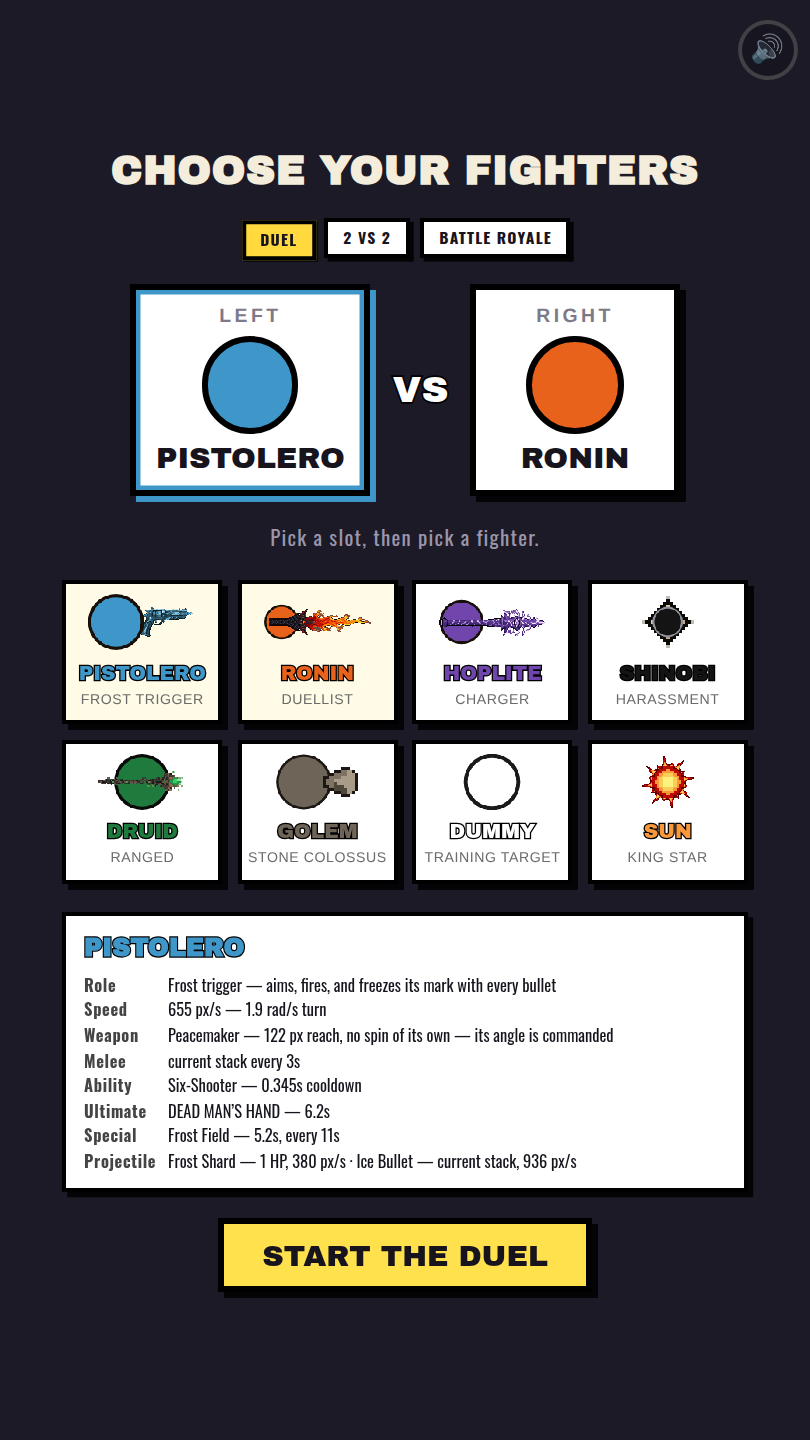
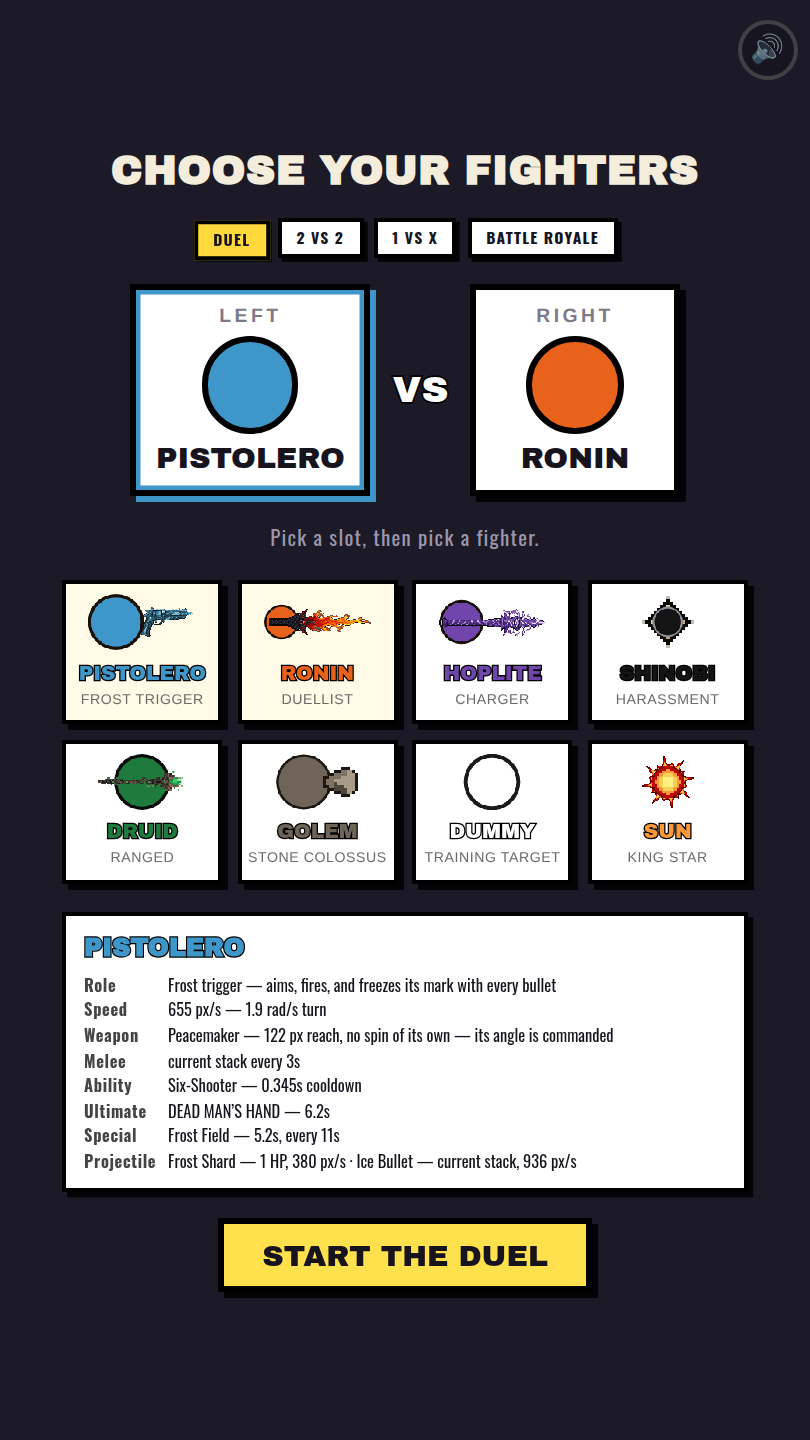
Ajoute le format 1 contre X : un combattant seul contre 2 à 4 autres
Demandé : un mode 1vX, par exemple le Soleil contre 4 personnages au maximum.

**Le moteur n'a pas eu une ligne à écrire, et c'est vérifié, pas supposé** : le
1 contre 4 a d'abord été joué par l'URL — `?f=sun,outlaw,bladesman,wind,mage&
teams=0,1,1,1,1` — et il tournait déjà, HUD groupé en deux bandeaux, titre
d'arène « SUN vs PISTOLERO · RONIN · SHINOBI · DRUID », jauges de chacun. Le
format n'existait qu'à l'écran de sélection.

Une entrée dans la table `FORMATS` de `ui/select.js` :

    solo: { taille: 3, min: 3, max: 5,
            camps: (n) => Array.from({ length: n }, (_, i) => (i === 0 ? 0 : 1)), … }

3 à 5 emplacements, donc de 1 contre 2 à **1 contre 4** comme demandé. Le
plancher est 3 et non 2 : à deux, ce serait le duel, qui a déjà son format. Le
1 contre X et la bataille royale ne diffèrent que par `camps` — `[0,1,1,1]`
contre `[0,1,2,3]`.

**Trois chaînes `mode === '…'` sont rentrées dans la table** à cette occasion,
pour que la promesse « ajouter un format ne coûte qu'une entrée » soit vraie :
chaque format porte maintenant son `tag` (libellé d'emplacement) et son
`bouton` (libellé de départ), et c'est la présence de `min` qui décide
l'affichage du compteur, plus un nom de format testé en dur. `#royale-size`
devient `#fighter-count` : il ne sert plus qu'à la bataille royale.

**Un défaut de mise en page trouvé et corrigé** : le 1 contre X est le premier
format où un seul camp porte quatre emplacements, et `.slot-team` était une
[…]

Changed region(s): [[0.216, 0.125, 0.7716, 0.1875]]

diff --git a/src/ui/select.js b/src/ui/select.js
@@ -19,7 +19,7 @@ export function createSelectScreen({ root, onStart, lang = 'ref' }) {
   const t = UI[lang] ?? UI.ref;
   const slotsEl = root.querySelector('#slots');
   const modesEl = root.querySelector('#modes');
-  const sizeEl = root.querySelector('#royale-size');
+  const sizeEl = root.querySelector('#fighter-count');
   const sizeLabel = root.querySelector('#size-label');
   const rosterEl = root.querySelector('#roster');
   const sheetEl = root.querySelector('#element-sheet');
@@ -27,14 +27,58 @@ export function createSelectScreen({ root, onStart, lang = 'ref' }) {
 
   /**
    * **Formats.** `duel` est le duel d'origine ; `teams` forme deux camps de
-   * deux ; `royale` met 3 à 5 combattants chacun pour soi. Le nombre
-   * d'emplacements et leur groupement en découlent — c'est la seule chose que
-   * le format décide ici, le moteur ne connaissant, lui, que des camps.
+   * deux ; `solo` en met **un seul contre tous les autres** ; `royale` met 3 à
+   * 5 combattants chacun pour soi. Le nombre d'emplacements et leur groupement
+   * en découlent — c'est la seule chose que le format décide ici, le moteur ne
+   * connaissant, lui, que des camps.
+   *
+   * **Chaque format porte tout ce qui le distingue**, et c'est ce qui fait
+   * qu'en ajouter un ne coûte qu'une entrée :
+   *  • `taille` (et `min`/`max` s'il est réglable — c'est `min` qui décide
+   *    l'affichage du compteur, aucun nom de format n'est testé pour ça) ;
+   *  • `camps`, la seule chose que le moteur lise ;
+   *  • `tag`, le libellé d'un emplacement ;
+   *  • `bouton`, le libellé du bouton de départ.
+   *
+   * `solo` et `royale` ont le même compteur mais pas les mêmes camps : le
+   * premier fait **1 contre n−1**, le second **chacun pour soi**. C'est la
+   * seule différence entre eux, et elle tient dans `camps`.
    */
   const FORMATS = {
-    duel: { taille: 2, camps: () => [0, 1] },
-    teams: { taille: 4, camps: () => [0, 0, 1, 1] },
-    royale: { taille: 4, min: 3, max: Math.min(5, ROSTER.length), camps: (n) => ROSTER.slice(0, n).map((_, i) => i) },
+    duel: {
+      taille: 2,
+      camps: () => [0, 1],
+      tag: (i) => (i === 0 ? t.slotLeft : t.slotRight),
+      bouton: () => t.start,
+    },
+    teams: {
+      taille: 4,
+      camps: () => [0, 0, 1, 1],
+      tag: (i, camps) => (camps[i] === 0 ? t.teamA : t.teamB),
+      bouton: () => t.start,
+    },
+    solo: {
+      taille: 3,
+      /** **3 à 5 emplacements, donc 1 contre 2 à 1 contre 4** — demandé « 4
+       *  personnages max ». Le plancher est 3 et non 2 : à deux, ce serait le
+       *  duel, qui a déjà son format. */
+      min: 3,
+      max: Math.min(5, ROSTER.length),
+      camps: (n) => Array.from({ length: n }, (_, i) => (i === 0 ? 0 : 1)),
+      /** Le premier est nommé, les autres numérotés : ils sont **un seul
+       *  camp**, ce que le « VS » et le groupement disent déjà — les libeller
+       *  tous pareil ferait perdre lequel on est en train de remplir. */
+      tag: (i) => (i === 0 ? t.slotSolo : t.slotN(i)),
+      bouton: () => t.startSolo,
+    },
+    royale: {
+      taille: 4,
+      min: 3,
+      max: Math.min(5, ROSTER.length),
+      camps: (n) => ROSTER.slice(0, n).map((_, i) => i),
+      tag: (i) => t.slotN(i + 1),
+      bouton: () => t.startRoyale,
+    },
   };
   let mode = 'duel';
   let taille = FORMATS.duel.taille;
@@ -104,16 +148,19 @@ export function createSelectScreen({ root, onStart, lang = 'ref' }) {
     refresh();
   });
 
-  // --- nombre de combattants, en bataille royale seulement
+  // --- nombre de combattants, dans les formats qui le règlent (`min` posé)
   root.querySelector('#size-less').addEventListener('click', () => setSize(taille - 1));
   root.querySelector('#size-more').addEventListener('click', () => setSize(taille + 1));
 
   function setSize(n) {
-    const f = FORMATS.royale;
+    const f = FORMATS[mode];
+    // Un format à taille fixe n'a pas de `min` : les deux boutons restent
+    // câblés mais ne font rien, plutôt que d'exister en double selon le mode.
+    if (!f.min) return;
     const clamped = Math.max(f.min, Math.min(f.max, n));
     if (clamped === taille) return;
     taille = clamped;
-    f.taille = clamped; // retenu pour le prochain passage en bataille royale
+    f.taille = clamped; // retenu pour le prochain passage dans ce format
     if (active >= taille) active = taille - 1;
     buildSlots();
     refresh();
@@ -162,10 +209,7 @@ export function createSelectScreen({ root, onStart, lang = 'ref' }) {
 
       const tag = document.createElement('span');
       tag.className = 'slot-tag';
-      tag.textContent =
-        mode === 'duel' ? (i === 0 ? t.slotLeft : t.slotRight)
-          : mode === 'teams' ? (camps[i] === 0 ? t.teamA : t.teamB)
-            : t.slotN(i + 1);
+      tag.textContent = FORMATS[mode].tag(i, camps);
 
       const orb = document.createElement('span');
       orb.className = 'slot-orb';
@@ -178,7 +222,7 @@ export function createSelectScreen({ root, onStart, lang = 'ref' }) {
       groupe.append(btn);
       slotBtns.push({ btn, orb, name });
     }
-    sizeEl.hidden = mode !== 'royale';
+    sizeEl.hidden = !FORMATS[mode].min;
     sizeLabel.textContent = String(taille);
     for (const b of modesEl.querySelectorAll('[data-mode]')) {
       b.setAttribute('aria-pressed', String(b.dataset.mode === mode));
@@ -235,7 +279,7 @@ export function createSelectScreen({ root, onStart, lang = 'ref' }) {
       orb.style.background = el ? el.look.body : '#e6e6e6';
       name.textContent = el ? label(el, lang) : '—';
     });
-    startBtn.textContent = mode === 'royale' ? t.startRoyale : t.start;
+    startBtn.textContent = FORMATS[mode].bouton();
     startBtn.disabled = retenus.some((id) => !id);
   }
 

diff --git a/styles/style.css b/styles/style.css
@@ -215,7 +215,7 @@ body {
 }
 
 /* Nombre de combattants, en bataille royale seulement. */
-.royale-size {
+.fighter-count {
   display: flex;
   align-items: center;
   gap: 1.6cqw;
@@ -224,7 +224,7 @@ body {
 /* `display: flex` l'emporte sur l'attribut `hidden`, qui ne pose qu'un
    `display: none` de feuille par défaut : sans cette ligne, le sélecteur de
    nombre restait visible en duel. */
-.royale-size[hidden] { display: none; }
+.fighter-count[hidden] { display: none; }
 
 .size-btn {
   appearance: none;
@@ -254,11 +254,18 @@ body {
 }
 
 /* Un camp = un bloc. C'est ce qui garde le « VS » entre les camps plutôt qu'au
-   fil du texte quand la ligne passe à la ligne. */
+   fil du texte quand la ligne passe à la ligne.
+
+   Il passe à la ligne **lui aussi** depuis le 1 contre X : c'est le premier
+   format où un seul camp porte quatre emplacements, et une rangée de quatre
+   débordait la page (440 px de large pour 405). Les autres formats n'en
+   mettent jamais plus de deux dans un camp, donc rien n'y change. */
 .slot-team {
   display: flex;
   align-items: flex-start;
   gap: 2cqw;
+  flex-wrap: wrap;
+  justify-content: center;
 }
 
 /* Emplacement + son champ de points de vie. Le champ est à côté du bouton et
@@ -271,6 +278,9 @@ body {
 .slots:not([data-count="2"]) .slot-name { font-size: 2.4cqw; }
 .slots:not([data-count="2"]) .slot-tag { font-size: 1.5cqw; }
 .slots:not([data-count="2"]) .slot-vs { font-size: 3.4cqw; }
+/* À cinq, le camp le plus chargé en porte quatre (1 contre 4) : à 28cqw la
+   rangée fait 118cqw. On resserre juste assez pour qu'elle tienne. */
+.slots[data-count="5"] .slot { min-width: 21cqw; }
 
 .slot {
   appearance: none;

diff --git a/src/ui/lang.js b/src/ui/lang.js
@@ -33,10 +33,13 @@ export const UI = {
     // --- formats de partie
     modeDuel: 'DUEL',
     modeTeams: '2 VS 2',
+    modeSolo: '1 VS X',
     modeRoyale: 'BATTLE ROYALE',
     teamA: 'TEAM A',
     teamB: 'TEAM B',
+    slotSolo: 'ALONE',
     slotN: (i) => `FIGHTER ${i}`,
+    startSolo: 'START THE HUNT',
     startRoyale: 'START THE BRAWL',
     standings: 'FINAL STANDINGS',
     // --- écran de fin (statique)
@@ -143,10 +146,13 @@ export const UI = {
     // --- formats de partie
     modeDuel: 'DUEL',
     modeTeams: '2 CONTRE 2',
+    modeSolo: '1 CONTRE X',
     modeRoyale: 'BATAILLE ROYALE',
     teamA: 'ÉQUIPE A',
     teamB: 'ÉQUIPE B',
+    slotSolo: 'SEUL',
     slotN: (i) => `COMBATTANT ${i}`,
+    startSolo: 'LANCER LA TRAQUE',
     startRoyale: 'LANCER LA MÊLÉE',
     standings: 'CLASSEMENT',
     start: 'LANCER LE DUEL',
@@ -239,6 +245,7 @@ export function applyStaticLabels(root, lang) {
   // reste ici que ce qui est écrit en dur dans `index.html`.
   set('[data-mode="duel"]', t.modeDuel);
   set('[data-mode="teams"]', t.modeTeams);
+  set('[data-mode="solo"]', t.modeSolo);
   set('[data-mode="royale"]', t.modeRoyale);
   set('.select-hint', t.selectHint);
   set('#btn-start', t.start);

diff --git a/index.html b/index.html
@@ -32,6 +32,7 @@
       <div class="modes" id="modes" role="group" aria-label="Match format">
         <button class="mode" data-mode="duel" type="button" aria-pressed="true">DUEL</button>
         <button class="mode" data-mode="teams" type="button" aria-pressed="false">2 VS 2</button>
+        <button class="mode" data-mode="solo" type="button" aria-pressed="false">1 VS X</button>
         <button class="mode" data-mode="royale" type="button" aria-pressed="false">BATTLE ROYALE</button>
       </div>
 
@@ -39,7 +40,7 @@
            leur groupement dépendent du format choisi. -->
       <div class="slots" id="slots"></div>
 
-      <div class="royale-size" id="royale-size" hidden>
+      <div class="fighter-count" id="fighter-count" hidden>
         <button class="size-btn" id="size-less" type="button" aria-label="One fewer fighter">−</button>
         <span class="size-label" id="size-label">4</span>
         <button class="size-btn" id="size-more" type="button" aria-label="One more fighter">+</button>

diff --git a/README.md b/README.md
@@ -1,7 +1,7 @@
-# Elemental Duel — huit combattants, trois formats
+# Elemental Duel — huit combattants, quatre formats
 
-Duels **à deux, en 2 contre 2 ou en bataille royale** (jusqu'à huit, chacun pour
-soi), avec cinq combattants repris de la chaîne **« ballthingsim »** et trois
+Duels **à deux, en 2 contre 2, en 1 contre X ou en bataille royale** (jusqu'à
+huit, chacun pour soi), avec cinq combattants repris de la chaîne **« ballthingsim »** et trois
 inventés, en **HTML + CSS + JavaScript** avec un rendu **Canvas 2D**.
 Aucune dépendance, aucun build : le dépôt se publie tel quel sur GitHub Pages.
 
@@ -32,12 +32,15 @@ boss). L'équilibrage se lit sur les six autres.
 | --- | --- |
 | **Duel** | un contre un, le format d'origine — c'est lui, et lui seul, dont l'équilibrage est relevé |
 | **2 contre 2** | deux équipes de deux. Les armes ne touchent que le camp adverse, mais les **corps se bousculent entre tous** : un coéquipier reste un obstacle |
+| **1 contre X** | un combattant **seul contre tous les autres**, de **1 contre 2 à 1 contre 4**. Les X forment un seul camp : ils s'épaulent, se bousculent entre eux, et ne visent que le solitaire |
 | **Bataille royale** | **3 à 5** combattants à l'écran de sélection, chacun pour soi, dernier debout. Le moteur, lui, en accepte autant qu'il y a de combattants — le plafond est un choix de lisibilité, pas une limite technique |
 
-Le moteur ne connaît aucun de ces trois noms : il reçoit une liste de
-combattants et **un camp pour chacun**. « 2 contre 2 » et « chacun pour soi »
-sont deux façons de remplir la même liste de camps. Ajouter un format ne demande
-donc pas une ligne de moteur.
+Le moteur ne connaît aucun de ces quatre noms : il reçoit une liste de
+combattants et **un camp pour chacun**. « 2 contre 2 », « 1 contre X » et
+« chacun pour soi » sont trois façons de remplir la même liste de camps —
+`[0,0,1,1]`, `[0,1,1,1]` et `[0,1,2,3]`. Ajouter un format ne demande donc pas
+une ligne de moteur : le 1 contre X a été **joué par l'URL avant d'avoir une
+seule ligne d'interface**, et il tournait déjà.
 
 Au-delà de deux combattants, chacun vise l'**ennemi vivant le plus proche** et
 peut changer de cible d'un pas à l'autre, un **mort quitte le terrain
@@ -79,7 +82,7 @@ voir [`docs/FICHES.md`](docs/FICHES.md).
 
 ![L’Hoplite contre le Ronin](docs/capture-duel.png)
 
-<sup>Les nouveaux formats : [un 2 contre 2](docs/capture-2v2.png) (les camps groupés dans le titre et dans le HUD) · [une bataille royale à cinq](docs/capture-royale.png) · [la parade à deux vainqueurs](docs/capture-fin-2v2.png).</sup>
+<sup>Les autres formats : [un 2 contre 2](docs/capture-2v2.png) (les camps groupés dans le titre et dans le HUD) · [**un 1 contre 4**](docs/capture-1vx.png), le Soleil seul contre quatre — il gagne 1 duel sur 3 dans cette configuration, là où il en gagne 20 sur 21 en 1 contre 1 · [une bataille royale à cinq](docs/capture-royale.png) · [la parade à deux vainqueurs](docs/capture-fin-2v2.png).</sup>
 
 <sup>L’Hoplite (charge, Dôme de drain) contre le Ronin (surchauffe, Aura de braise). Voir aussi [l'écran de sélection](docs/capture-selection.png), [le Pistolero sous DEAD MAN’S HAND](docs/capture-horsloi.png), [la ruée du Ronin](docs/capture-bretteur.png), [la Foudre tombante de l’Hoplite](docs/capture-lancer.png), [sa charge de lance](docs/capture-lancer-charge.png) et [l'écran de fin avec l'export Short](docs/capture-fin.png). Le boss : [le Rayon solaire du Soleil](docs/capture-soleil.png), huit rayons en couronne et un faisceau qui traverse l'arène — et [ses deux secondes de chargement](docs/capture-soleil-charge.png), la seule fenêtre pour en sortir.</sup>
 
@@ -110,7 +113,7 @@ empêche Jekyll d'ignorer les dossiers.
 | ------------ | ----------------------------------------------------------------- |
 | `?a=&b=`     | lance directement un duel sans écran de sélection — `outlaw`, `bladesman`, `lancer`, `wind` (le Shinobi), `mage` |
 | `?f=`        | une liste de combattants, pour une partie à plusieurs : `?f=outlaw,mage,lancer,wind` |
-| `?teams=`    | les camps, dans le même ordre que `?f=` : `0,0,1,1` fait un 2 contre 2. Omis, chacun pour soi |
+| `?teams=`    | les camps, dans le même ordre que `?f=` : `0,0,1,1` fait un 2 contre 2, `0,1,1,1` un 1 contre 3. Omis, chacun pour soi |
 | `?seed=1234` | rejoue **exactement** le même duel (déterminisme complet)          |
 | `?lang=fr`   | **toute l'interface** en français — HUD, titre d'arène et écrans DOM (par défaut : l'anglais de la vidéo) |
 | `?debug=1`   | hitboxes, vitesses, charge d'ultime, seed                          |

diff --git a/CLAUDE.md b/CLAUDE.md
@@ -1,6 +1,7 @@
 # CLAUDE.md — mémoire du projet
 
-Duels **à deux, en 2 contre 2 ou en bataille royale**, avec huit combattants :
+Duels **à deux, en 2 contre 2, en 1 contre X ou en bataille royale**, avec huit
+combattants :
 cinq repris de la chaîne « ballthingsim » — le Pistolero, le Ronin, l’Hoplite,
 le Shinobi et le Druide — et **trois inventés**, le Golem, le Mannequin (une
 cible d'entraînement qui ne frappe pas) et le Soleil (un **boss**, fait pour
@@ -59,7 +60,7 @@ recale.
 | Écrans DOM | `src/ui/select.js`, `src/ui/result.js`, `index.html`, `styles/style.css` |
 | Libellés d'interface (les deux langues) | `src/ui/lang.js` |
 | Câblage, boucle, seed, enregistreur | `src/main.js` |
-| **Formats de partie** (duel, 2 contre 2, bataille royale) | `src/ui/select.js` (les camps) + `src/game/match.js` (le moteur) |
+| **Formats de partie** (duel, 2 contre 2, 1 contre X, bataille royale) | `src/ui/select.js` (la table `FORMATS`) + `src/game/match.js` (le moteur) |
 
 `elements.js` et `pixelmaps.js` ne sont que des **registres** : ils n'ont
 aucune valeur de combattant. Les ouvrir pour changer une couleur est une erreur
@@ -215,7 +216,7 @@ dans l'autre : `docs/PIEGES.md`.
 
 ## Formats de partie
 
-Trois, et **un seul mécanisme** : le moteur reçoit une liste de combattants et
+Quatre, et **un seul mécanisme** : le moteur reçoit une liste de combattants et
 un camp pour chacun. Il ne sait pas ce qu'est un « 2 contre 2 » ; il sait qui
 peut blesser qui.
 
@@ -223,11 +224,24 @@ peut blesser qui.
 | --- | --- | --- |
 | Duel | 2 identifiants | omis → `[0, 1]` |
 | 2 contre 2 | 4 identifiants | `[0, 0, 1, 1]` |
+| **1 contre X** | 3 à 5 identifiants | `[0, 1, 1, …]` |
 | Bataille royale | 3 à *n* identifiants | omis → chacun le sien |
 
 `ui/select.js` porte la table des formats et fabrique les camps ; `main.js` les
 lit aussi depuis l'URL (`?f=a,b,c&teams=0,0,1`). Ajouter un format ne demande
 **qu'une entrée dans cette table** — pas une ligne de moteur.
+
+**Et c'est vérifié, pas supposé** : le 1 contre X a été joué par l'URL *avant*
+d'écrire une ligne d'interface, et il tournait déjà — HUD groupé, titre
+d'arène, jauges. Chaque entrée porte donc tout ce qui distingue son format
+(`taille`, `min`/`max` s'il est réglable, `camps`, `tag`, `bouton`) : les trois
+chaînes `mode === '…'` qui traînaient dans `select.js` sont rentrées dans la
+table à cette occasion. **C'est `min` qui décide l'affichage du compteur**,
+plus un nom de format.
+
+**Le 1 contre X et la bataille royale se ressemblent et ne diffèrent que par
+`camps`** : `[0, 1, 1, 1]` contre `[0, 1, 2, 3]`. Même compteur, même nombre
+d'emplacements, deux parties qui n'ont rien à voir.
 
 **L'écran de sélection plafonne la bataille royale à 5** (`Math.min(5,
 ROSTER.length)`), pas au roster entier : c'est un choix de lisibilité — le HUD
@@ -686,6 +700,10 @@ Une ligne par piège ; **la mesure, le balayage et l'histoire sont dans
   mais le prix est la dérive et non la réutilisation. Le Soleil porte donc
   `look.palette`, cinq teintes relevées sur sa maquette, et son module n'a plus
   **aucun littéral de couleur**.
+- **Un format dont un seul camp est nombreux casse une mise en page qui tenait
+  pour tous les autres** : mesurer le débordement contre la **fenêtre**, pas
+  contre le parent — les emplacements tenaient dans leur bloc, c'est le bloc qui
+  sortait de la page.
 - **La vignette de sélection doit lire le sprite, pas la carte texte** : elle
   compilait `PIXEL_MAPS` et ignorait donc les overrides PNG. Invisible tant que
   les replis étaient de fidèles transcriptions, criant dès qu'un repli est

diff --git a/docs/PIEGES.md b/docs/PIEGES.md
@@ -23,13 +23,13 @@ relevé, puis les pièges eux-mêmes.
 | &nbsp;&nbsp;· Déterminisme et ordre d'exécution | 366 |
 | &nbsp;&nbsp;· Éditer les données | 405 |
 | &nbsp;&nbsp;· Interface et rendu | 511 |
-| &nbsp;&nbsp;· Le son | 597 |
-| &nbsp;&nbsp;· Refactoriser | 1033 |
-| **Le détail des sections condensées de `CLAUDE.md`** | 1074 |
-| &nbsp;&nbsp;· L'écart du roster, et ce que la matrice cache | 1076 |
-| &nbsp;&nbsp;· Formats — ce qui change à l'écran au-delà de deux | 1119 |
-| &nbsp;&nbsp;· Invariant 12 — corollaire pour les modules de pouvoirs | 1162 |
-| &nbsp;&nbsp;· Invariant 13 — comment le moteur a cessé de compter jusqu'à deux | 1181 |
+| &nbsp;&nbsp;· Le son | 607 |
+| &nbsp;&nbsp;· Refactoriser | 1043 |
+| **Le détail des sections condensées de `CLAUDE.md`** | 1084 |
+| &nbsp;&nbsp;· L'écart du roster, et ce que la matrice cache | 1086 |
+| &nbsp;&nbsp;· Formats — ce qui change à l'écran au-delà de deux | 1129 |
+| &nbsp;&nbsp;· Invariant 12 — corollaire pour les modules de pouvoirs | 1172 |
+| &nbsp;&nbsp;· Invariant 13 — comment le moteur a cessé de compter jusqu'à deux | 1191 |
 
 ---
 
@@ -593,6 +593,16 @@ dans `docs/FICHES.md`. Ce qui suit vaut pour tout le dépôt.
   classement a un sens est lu **à la fin du duel**, clones compris — un duel à
   deux qui a vu naître un clone n'est donc plus « à deux » pour ce test, et
   c'est ce qui rendait le doublon visible jusqu'en 1 contre 1.
+
+- **Un format dont un seul camp est nombreux casse une mise en page qui tenait
+  pour tous les autres.** Le 1 contre X est le premier où un camp porte quatre
+  emplacements : `.slot-team` était une rangée sans retour, et à cinq elle
+  sortait de la page (440 px de large pour 405) — sans que rien ne le signale,
+  parce que les emplacements ne débordaient pas *leur conteneur*, c'est le
+  conteneur qui débordait *la page*. Mesurer le débordement contre la **fenêtre**,
+  pas contre le parent. Correction : le bloc de camp passe à la ligne comme la
+  rangée de camps le faisait déjà, et les emplacements se resserrent à cinq. La
+  bataille royale à cinq y gagne au passage — elle débordait aussi.
 
 ### Le son
 
